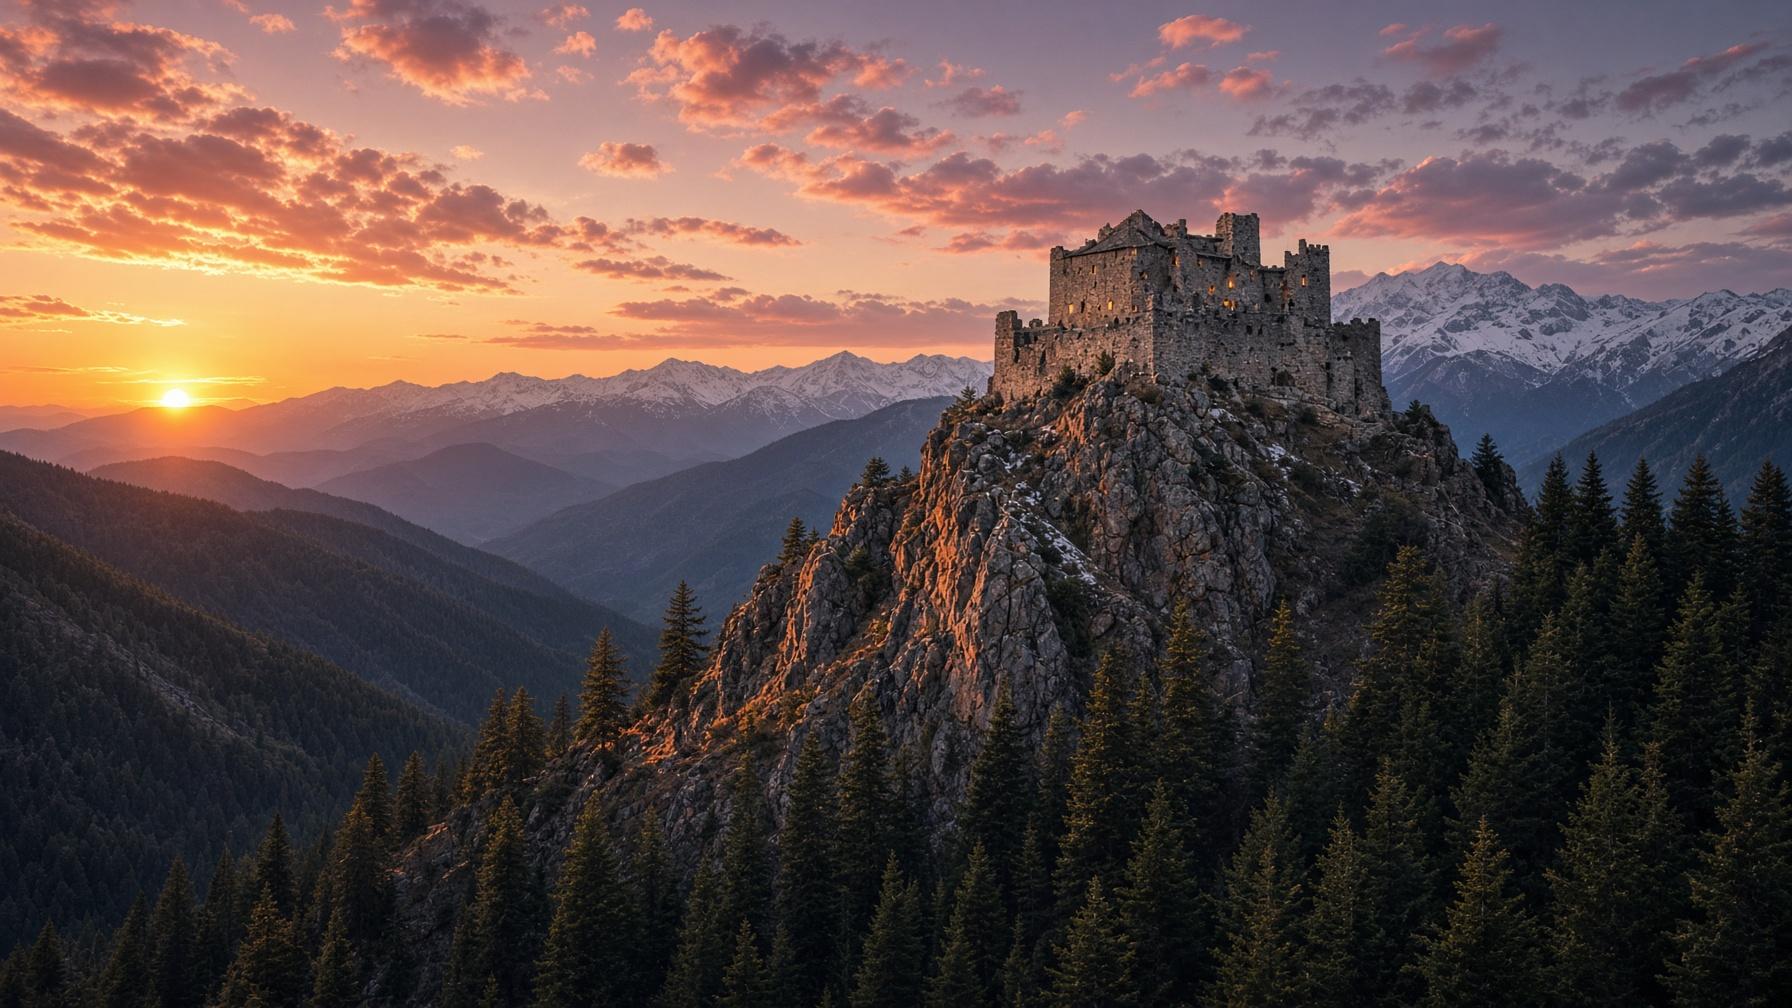
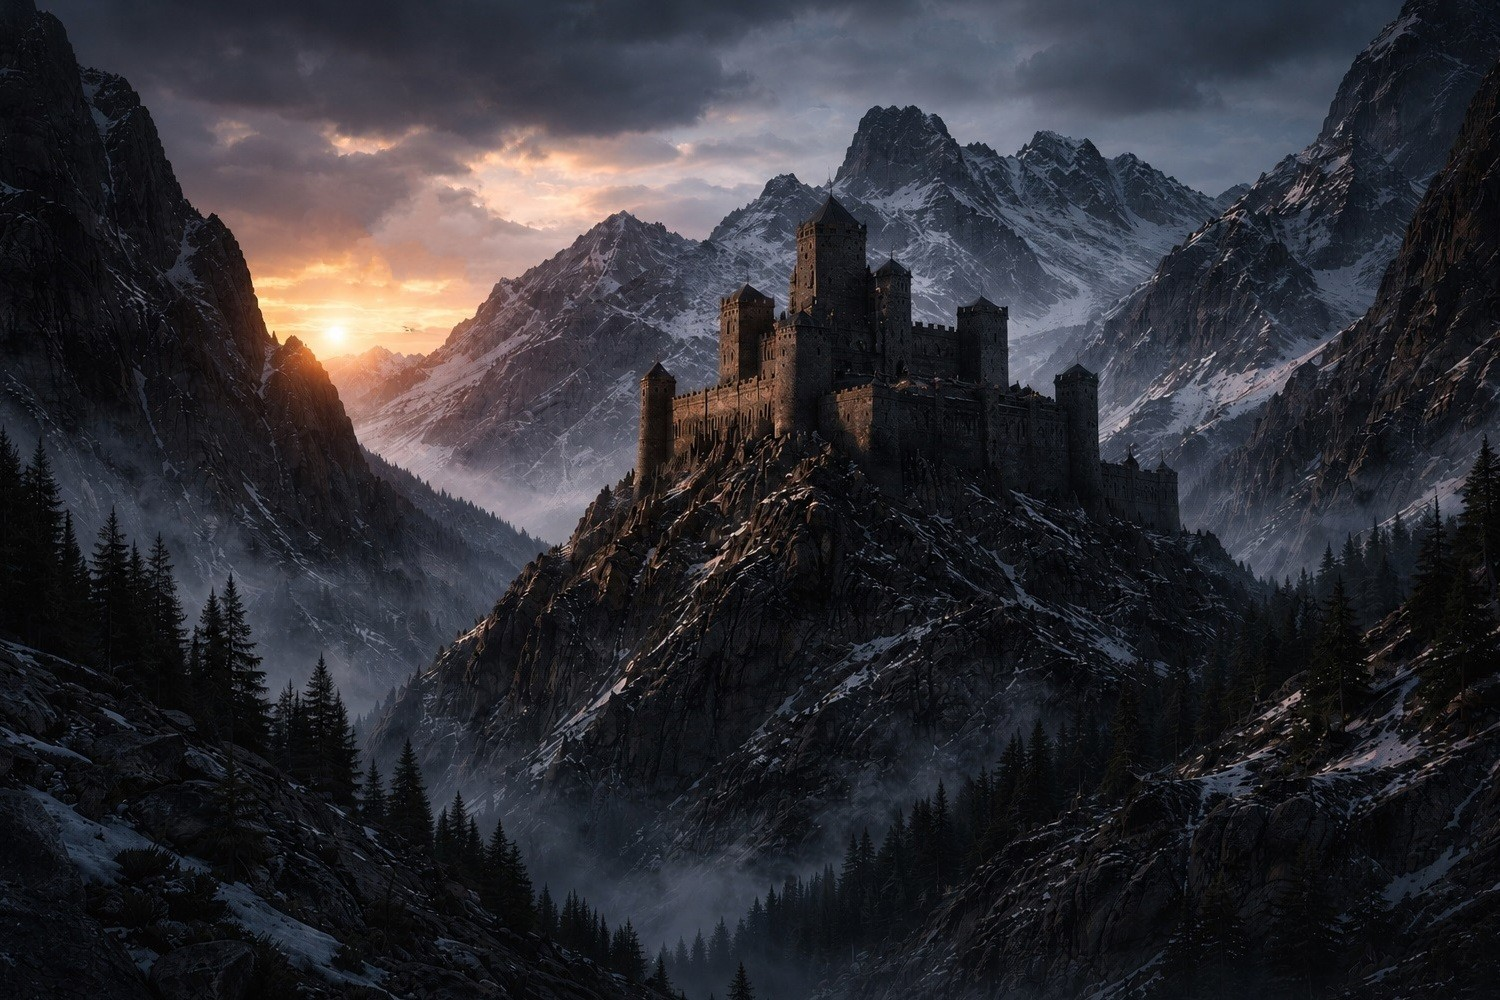
ачивки и новая старая шапка

diff --git a/js/achievements.js b/js/achievements.js
@@ -1,0 +1,183 @@
+/* ДОСТИЖЕНИЯ. Хранятся только в браузере читателя (localStorage, ключ ds-achievements).
+   Модуль ничего не меняет в остальном коде: он подцепляется к существующим функциям (openReader, Store.addBookmark, Store.toggleFav…)
+   и сам определяет, когда выдать значок. Чтобы добавить новое достижение, допишите запись в ACH и вызовите Ach.unlock('id') в нужный момент. */
+var ACH_COLLECTOR = 5;   /* сколько рассказов нужно дочитать для «Коллекционера» — когда рассказов станет больше, поднимите число */
+
+var ACH = [
+  { id: 'first', name: 'Ну, поехали', desc: 'Открыть первый рассказ', tier: 'bronze',
+    ico: '<path d="M50 34 C40 28 28 28 20 32 V68 C28 64 40 64 50 70 C60 64 72 64 80 68 V32 C72 28 60 28 50 34 Z"/><path d="M50 34 V70"/><path d="M27 40 C33 39 38 39 43 41 M27 48 C33 47 38 47 43 49 M57 41 C62 39 67 39 73 40 M57 49 C62 47 67 47 73 48" opacity=".6"/>' },
+  { id: 'done', name: 'Стойкий', desc: 'Дочитать рассказ до конца', tier: 'bronze',
+    ico: '<rect x="30" y="24" width="40" height="52" rx="3"/><path d="M38 24 V76"/><path d="M45 52 L53 60 L66 42"/>' },
+  { id: 'mark', name: 'Я остановился тут?', desc: 'Поставить закладку', tier: 'bronze',
+    ico: '<path d="M34 22 H66 V80 L50 67 L34 80 Z"/><path d="M50 36 L53 43 L60 44 L55 49 L56 56 L50 52 L44 56 L45 49 L40 44 L47 43 Z" opacity=".8"/>' },
+  { id: 'shelf', name: 'Мой книжный шкаф', desc: 'Положить 3 рассказа на полку', tier: 'silver',
+    ico: '<g transform="translate(5 0)"><rect x="26" y="40" width="12" height="36" rx="1.5"/><rect x="40" y="30" width="12" height="46" rx="1.5"/><rect x="54" y="44" width="10" height="32" rx="1.5"/></g><path d="M20 78 H80"/><path d="M34 48 H40 M48 40 H54" opacity=".6"/>' },
+  { id: 'owl', name: 'Сова', desc: 'Читать в ночной теме', tier: 'silver',
+    ico: '<path d="M58 24 A27 27 0 1 0 76 62 A23 23 0 0 1 58 24 Z"/><path d="M70 30 V38 M66 34 H74 M78 48 V53 M75.5 50.5 H80.5" opacity=".8"/>' },
+  { id: 'back', name: 'С возвращением!', desc: 'Прийти на сайт в другой день', tier: 'silver',
+    ico: '<path d="M30 62 A20 20 0 0 1 70 62"/><path d="M20 62 H80"/><path d="M50 30 V37 M31 40 L36 45 M69 40 L64 45 M24 54 L30 55 M76 54 L70 55"/><path d="M30 70 H70 M38 77 H62" opacity=".6"/>' },
+  { id: 'heart', name: 'От всего сердца', desc: 'Поделиться рассказом или цитатой', tier: 'bronze',
+    ico: '<g transform="translate(-3.5 1)"><path d="M22 47 L80 24 L64 76 L50 58 Z"/><path d="M50 58 L80 24"/><path d="M50 58 L48 74 L58 66"/></g>' },
+  { id: 'collector', name: 'Коллекционер', desc: 'Дочитать ' + ACH_COLLECTOR + ' рассказов', tier: 'gold',
+    ico: '<path d="M24 64 L28 36 L41 50 L50 30 L59 50 L72 36 L76 64 Z"/><path d="M24 72 H76"/><circle cx="28" cy="33" r="2.5"/><circle cx="50" cy="27" r="2.5"/><circle cx="72" cy="33" r="2.5"/><path d="M40 58 H60" opacity=".6"/>' },
+  { id: 'lark', name: 'Жаворонок', desc: 'Читать в дневной теме', tier: 'silver',
+    ico: '<path d="M22 58 C30 46 42 44 50 50 C54 40 64 34 76 36 C70 40 68 46 68 52 C66 64 54 72 42 68 L32 72 L35 63 C30 63 25 61 22 58 Z"/><circle cx="62" cy="44" r="1.6" fill="currentColor" stroke="none"/><path d="M76 36 L84 33" /><path d="M30 28 V34 M24 31 H36 M70 22 V27 M67.5 24.5 H72.5" opacity=".7"/>' },
+  { id: 'themer', name: 'Темщик', desc: 'Прочитать во всех стилях и всех режимах читалки', tier: 'gold', hidden: true,
+    ico: '<circle cx="50" cy="50" r="22"/><path d="M50 28 V72" /><path d="M50 28 A22 22 0 0 1 50 72 Z" fill="currentColor" fill-opacity=".35"/><path d="M28 50 H72" opacity=".6"/><circle cx="50" cy="50" r="31" stroke-dasharray="2 4" opacity=".6"/>' },
+  { id: 'night3', name: 'Доброй ночи', desc: 'Читать глубокой ночью, когда все спят', tier: 'silver', hidden: true,
+    ico: '<path d="M52 30 A20 20 0 1 0 68 62 A17 17 0 0 1 52 30 Z"/><path d="M62 24 H72 L62 36 H72" /><path d="M74 40 H80 L74 48 H80" opacity=".8"/><path d="M28 28 V34 M25 31 H31 M76 66 V70 M74 68 H78" opacity=".7"/>' }
+];
+
+var Ach = (function () {
+  var KEY = 'ds-achievements', st = { got: {}, done: [], last: '', time: {}, reached: {}, combos: [] };
+  try { var raw = JSON.parse(localStorage.getItem(KEY) || 'null'); if (raw && typeof raw === 'object') { st.got = raw.got || {}; st.done = raw.done || []; st.last = raw.last || ''; st.time = raw.time || {}; st.reached = raw.reached || {}; st.combos = raw.combos || []; } } catch (e) {}
+  function save() { try { localStorage.setItem(KEY, JSON.stringify(st)); } catch (e) {} }
+  function find(id) { for (var i = 0; i < ACH.length; i++) if (ACH[i].id === id) return ACH[i]; return null; }
+
+  var TIERS = { bronze: ['#e0a070', '#7a4a26'], silver: ['#eef2f8', '#7d8794'], gold: ['#fff0b8', '#b98a2c'] };
+  function defs() {
+    if (document.getElementById('achDefs')) return;
+    var g = '';
+    Object.keys(TIERS).forEach(function (k) {
+      g += '<linearGradient id="ar-' + k + '" x1="0" y1="0" x2="1" y2="1"><stop offset="0" stop-color="' + TIERS[k][0] + '"/><stop offset=".5" stop-color="' + TIERS[k][1] + '"/><stop offset="1" stop-color="' + TIERS[k][0] + '"/></linearGradient>';
+    });
+    g += '<radialGradient id="af" cx=".5" cy=".4" r=".7"><stop offset="0" stop-color="#1c2740"/><stop offset="1" stop-color="#080c15"/></radialGradient>';
+    var d = document.createElement('div'); d.id = 'achDefs'; d.setAttribute('aria-hidden', 'true'); d.style.cssText = 'position:absolute;width:0;height:0;overflow:hidden';
+    d.innerHTML = '<svg width="0" height="0"><defs>' + g + '</defs></svg>'; document.body.appendChild(d);
+  }
+  function medal(a, locked) {
+    var c = TIERS[a.tier][0];
+    return '<svg class="ach-medal' + (locked ? ' locked' : '') + '" viewBox="0 0 100 100" aria-hidden="true"><circle cx="50" cy="50" r="48" fill="url(#ar-' + a.tier + ')"/><circle cx="50" cy="50" r="44.5" fill="url(#af)"/>' +
+      '<circle cx="50" cy="50" r="41" fill="none" stroke="' + c + '" stroke-opacity=".45" stroke-width=".7" stroke-dasharray="1.2 2.2"/>' +
+      '<g color="' + c + '" fill="none" stroke="' + c + '" stroke-width="2.6" stroke-linecap="round" stroke-linejoin="round">' + a.ico + '</g></svg>';
+  }
+
+  /* всплывающая плашка; если получено сразу несколько, показываем по очереди */
+  var queue = [], showing = false;
+  function pump() {
+    if (showing || !queue.length) return;
+    showing = true;
+    var a = queue.shift(), el = document.createElement('div');
+    el.className = 'ach-toast'; el.setAttribute('role', 'status');
+    el.innerHTML = medal(a) + '<div class="at"><div class="ak">Достижение</div><div class="an">' + esc(a.name) + '</div><div class="ad">' + esc(a.desc) + '</div></div>';
+    el.addEventListener('click', function () { location.hash = '#/achievements'; });
+    document.body.appendChild(el);
+    setTimeout(function () { el.classList.add('on'); }, 30);
+    setTimeout(function () { el.classList.remove('on'); setTimeout(function () { el.remove(); showing = false; pump(); }, 500); }, 4200);
+  }
+  function unlock(id) {
+    if (st.got[id] || !find(id)) return;
+    st.got[id] = Date.now(); save();
+    defs(); queue.push(find(id)); setTimeout(pump, 700);
+  }
+
+  function doneStories() { return st.done.filter(function (s) { var w = getWork(s); return w && w.kind === 'story'; }); }
+  function markDone(slug) {
+    var w = getWork(slug); if (!w) return;
+    if (st.done.indexOf(slug) < 0) { st.done.push(slug); save(); }
+    if (w.kind === 'story') { unlock('done'); if (doneStories().length >= ACH_COLLECTOR) unlock('collector'); }
+  }
+  function favCount() { return Store.s.favorites.filter(function (s) { var w = getWork(s); return w && w.kind === 'story'; }).length; }
+  function night() { var r = document.getElementById('reader'); return !!(r && r.classList.contains('night')); }
+
+  /* скрытая «Доброй ночи»: читает между 2:00 и 4:59 по местному времени */
+  function deepNight() { var h = new Date().getHours(); return h >= 2 && h < 5; }
+  /* все сочетания «стиль × режим»: 4 стиля (стандартная, фэнтези, sci-fi, газета) × 3 режима (день, ночь, тёплый) */
+  var COMBO_STYLES = ['standard', 'fantasy', 'scifi', 'gazette'], COMBO_MODES = ['day', 'night', 'candle'];
+  function comboNow() {
+    var r = document.getElementById('reader'); if (!r) return null;
+    var cl = r.classList, style = cl.contains('scifi') ? 'scifi' : cl.contains('fantasy') ? 'fantasy' : cl.contains('gazette') ? 'gazette' : 'standard';
+    var mode = cl.contains('candle') ? 'candle' : cl.contains('night') ? 'night' : 'day';
+    return style + '|' + mode;
+  }
+  function today() { var d = new Date(); return d.getFullYear() + '-' + (d.getMonth() + 1) + '-' + d.getDate(); }
+
+  function init() {
+    defs();
+    /* возвращение в другой день */
+    var t = today();
+    if (st.last && st.last !== t) unlock('back');
+    if (st.last !== t) { st.last = t; save(); }
+
+    /* открыл рассказ + читает в ночной теме */
+    if (typeof openReader === 'function') {
+      var baseOpen = openReader;
+      openReader = function () {
+        var r = baseOpen.apply(this, arguments);
+        if (r !== false && typeof R !== 'undefined' && R && R.work) { if (R.work.kind === 'story') unlock('first'); setTimeout(function () { if (night()) unlock('owl'); }, 400); }
+        return r;
+      };
+    }
+    if (typeof setReaderPref === 'function') {
+      var basePref = setReaderPref;
+      setReaderPref = function (k) { var r = basePref.apply(this, arguments); if (k === 'readerTheme' && R) setTimeout(function () { if (night()) unlock('owl'); }, 100); return r; };
+    }
+    /* закладка и полка */
+    var addBm = Store.addBookmark; Store.addBookmark = function () { var r = addBm.apply(this, arguments); unlock('mark'); return r; };
+    var tf = Store.toggleFav; Store.toggleFav = function () { var r = tf.apply(this, arguments); if (favCount() >= 3) unlock('shelf'); return r; };
+    /* поделился: системное «Поделиться» или копирование ссылки/цитаты */
+    if (navigator.share) { var ns = navigator.share.bind(navigator); navigator.share = function () { unlock('heart'); return ns.apply(null, arguments); }; }
+    var ct = copyText;
+    copyText = function (text) {
+      if (typeof text === 'string' && ((text.indexOf('/s/') >= 0 && text.indexOf('.html') >= 0) || text.indexOf('— «') >= 0)) unlock('heart');
+      return ct.apply(this, arguments);
+    };
+    /* дочитал до конца: мало долистать, нужно ещё провести в тексте разумное время (чтобы не засчитывалось быстрое пролистывание) */
+    var lastAct = Date.now();
+    ['scroll', 'touchstart', 'touchmove', 'keydown', 'mousemove', 'click', 'wheel'].forEach(function (ev) {
+      window.addEventListener(ev, function () { lastAct = Date.now(); }, { passive: true });
+    });
+    var comboKey = '', comboSec = 0;
+    function trackCombo() {
+      var k = comboNow(); if (!k) return;
+      if (k !== comboKey) { comboKey = k; comboSec = 0; return; }
+      comboSec++;
+      if (comboSec === 8) {
+        if (st.combos.indexOf(k) < 0) { st.combos.push(k); save(); }
+        if (k.split('|')[1] === 'day') unlock('lark');
+        var all = COMBO_STYLES.every(function (a) { return COMBO_MODES.every(function (m) { return st.combos.indexOf(a + '|' + m) >= 0; }); });
+        if (all) unlock('themer');
+      }
+    }
+    function needSec(w) { var words = (R && R.words) || 0; return Math.max(75, Math.round(words / 190 * 60 * 0.35)); }
+    function check() {
+      if (!R || !R.work) return;
+      var slug = R.work.slug;
+      if (st.done.indexOf(slug) >= 0) return;
+      if (st.reached[slug] && (st.time[slug] || 0) >= needSec(R.work)) markDone(slug);
+    }
+    setInterval(function () {
+      if (R && R.work && !document.hidden && Date.now() - lastAct < 45000) { if (deepNight()) unlock('night3'); trackCombo(); }
+      if (!R || !R.work || document.hidden || Date.now() - lastAct > 45000) return;
+      var slug = R.work.slug;
+      if (st.done.indexOf(slug) >= 0) return;
+      st.time[slug] = (st.time[slug] || 0) + 1;
+      if (st.time[slug] % 10 === 0) save();
+      check();
+    }, 1000);
+    window.addEventListener('scroll', function () {
+      if (!R || !R.work || st.done.indexOf(R.work.slug) >= 0 || st.reached[R.work.slug]) return;
+      var h = document.documentElement.scrollHeight - window.innerHeight;
+      if (h > 400 && window.scrollY / h > 0.92) { st.reached[R.work.slug] = 1; save(); check(); }
+    }, { passive: true });
+  }
+
+  function pageHtml() {
+    defs();
+    var vis = ACH.filter(function (a) { return !a.hidden || st.got[a.id]; }), n = ACH.filter(function (a) { return st.got[a.id]; }).length;
+    var hiddenLeft = ACH.filter(function (a) { return a.hidden && !st.got[a.id]; }).length;
+    var cards = vis.map(function (a) {
+      var got = !!st.got[a.id], extra = '';
+      if (a.id === 'collector' && !got) extra = '<div class="ap">' + Math.min(doneStories().length, ACH_COLLECTOR) + ' из ' + ACH_COLLECTOR + '</div>';
+      if (a.id === 'shelf' && !got) extra = '<div class="ap">' + Math.min(favCount(), 3) + ' из 3</div>';
+      return '<div class="ach-card' + (got ? ' got' : '') + '">' + medal(a, !got) + '<div class="an">' + esc(a.name) + '</div><div class="ad">' + esc(a.desc) + '</div>' +
+        (got ? '<div class="ap ok">Получено ' + new Date(st.got[a.id]).toLocaleDateString('ru-RU') + '</div>' : (extra || '<div class="ap">Пока не получено</div>')) + '</div>';
+    }).join('');
+    return '<article class="doc ach-page">' + docCloseBtn() + '<h1>Достижения</h1><p class="ach-sub">Получено: ' + n + ' из ' + vis.length + (hiddenLeft ? ' (+ секретные: ' + hiddenLeft + ')' : '') + '. Прогресс хранится только в вашем браузере.</p><div class="ach-grid">' + cards + '</div></article>';
+  }
+  return { init: init, unlock: unlock, markDone: markDone, pageHtml: pageHtml };
+})();
+
+PAGES['/achievements'] = { title: 'Достижения — ' + SITE.name, render: function () { return Ach.pageHtml(); } };
+if (typeof DOC_PATHS !== 'undefined') DOC_PATHS.push('/achievements');
+Ach.init();

diff --git a/css/style.css b/css/style.css
@@ -1071,3 +1071,24 @@ html:has(#reader.gazette)::-webkit-scrollbar-button{display:none;width:0;height:
 #reader.scifi .reader-body a.md-link{color:var(--sf-acc)}
 #reader.fantasy .reader-body a.md-link{color:var(--fa-acc);text-decoration-style:dotted;text-decoration-thickness:2px}
 #reader.gazette .reader-body a.md-link{color:var(--gz-red);text-decoration-style:solid}
+
+/* ДОСТИЖЕНИЯ */
+.ach-medal{display:block;width:100%;height:auto;filter:drop-shadow(0 8px 14px rgba(0,0,0,.5))}
+.ach-medal.locked{filter:grayscale(1) brightness(.5) drop-shadow(0 6px 10px rgba(0,0,0,.4));opacity:.7}
+.ach-sub{opacity:.7;margin:0 0 .4rem}
+.ach-grid{display:grid;grid-template-columns:repeat(auto-fill,minmax(150px,1fr));gap:1.6rem 1rem}
+.ach-card{text-align:center}
+.ach-card .ach-medal{width:min(120px,70%);margin:0 auto .6rem}
+.ach-card .an{font-weight:700;font-size:1rem;line-height:1.2}
+.ach-card .ad{font-size:.8rem;opacity:.65;margin-top:.25rem;line-height:1.3}
+.ach-card .ap{font-size:.72rem;opacity:.5;margin-top:.4rem;letter-spacing:.04em}
+.ach-card .ap.ok{opacity:.9;color:var(--accent)}
+.ach-card:not(.got) .an{opacity:.55}
+.ach-toast{width:max-content;min-width:min(86vw,270px);position:fixed;left:50%;bottom:calc(1.4rem + env(safe-area-inset-bottom,0px));transform:translate(-50%,140%);z-index:10001;display:flex;align-items:center;gap:.9rem;max-width:min(92vw,380px);padding:.65rem 1.1rem .65rem .7rem;border-radius:16px;background:linear-gradient(135deg,#1a2133,#0c1019);border:1px solid rgba(227,196,112,.55);box-shadow:0 12px 40px rgba(0,0,0,.6),0 0 24px rgba(227,196,112,.18);color:#e6eefc;opacity:0;transition:transform .5s cubic-bezier(.2,.9,.3,1.1),opacity .4s;cursor:pointer}
+.ach-toast.on{transform:translate(-50%,0);opacity:1}
+.ach-toast .ach-medal{width:54px;flex:none;animation:achSpin .8s ease-out}
+.ach-toast .ak{font-size:.62rem;letter-spacing:.22em;text-transform:uppercase;color:#e3c470}
+.ach-toast .an{font-weight:700;font-size:1.02rem;line-height:1.2}
+.ach-toast .ad{font-size:.78rem;opacity:.65;line-height:1.25}
+@keyframes achSpin{0%{transform:rotateY(0) scale(.5);opacity:0}60%{transform:rotateY(300deg) scale(1.15)}100%{transform:rotateY(360deg) scale(1);opacity:1}}
+@media (prefers-reduced-motion:reduce){.ach-toast .ach-medal{animation:none}}

diff --git a/js/shell.js b/js/shell.js
@@ -53,7 +53,7 @@ function shell(path, inner, showHero) {
     '<button type="button" class="side" id="qicon" aria-label="Поиск" aria-expanded="false">' + icon('search') + '</button></div><div class="results" id="results" hidden></div></div></div></nav>';
   h += '<main id="main">' + inner + '</main>' +
     '<footer class="footer"><div class="footer-in"><div><p class="name">' + SITE.name + '</p><p class="au"><a href="#/author">' + SITE.author + '</a></p></div>' +
-    '<div class="links"><a href="#/policy">Политика</a><span aria-hidden="true">·</span><a href="#/copyright">Авторские права</a><span aria-hidden="true">·</span><a href="#/about">' + SITE.year + '</a>' + (isStandalone() ? '' : '<span aria-hidden="true" class="install-dot">·</span><button type="button" class="install" id="installApp">Скачать приложение</button>') + '</div></div></footer></div>';
+    '<div class="links"><a href="#/policy">Политика</a><span aria-hidden="true">·</span><a href="#/copyright">Авторские права</a><span aria-hidden="true">·</span><a href="#/achievements">Достижения</a><span aria-hidden="true">·</span><a href="#/about">' + SITE.year + '</a>' + (isStandalone() ? '' : '<span aria-hidden="true" class="install-dot">·</span><button type="button" class="install" id="installApp">Скачать приложение</button>') + '</div></div></footer></div>';
   return h;
 }
 

diff --git a/index.html b/index.html
@@ -85,6 +85,7 @@
 <script src="js/router.js"></script>
 <script src="js/reader-menu.js"></script>
 <script src="js/events.js"></script>
+<script src="js/achievements.js"></script>
 <script src="js/metrika.js"></script>
 <script src="js/app.js"></script>
 </body>
